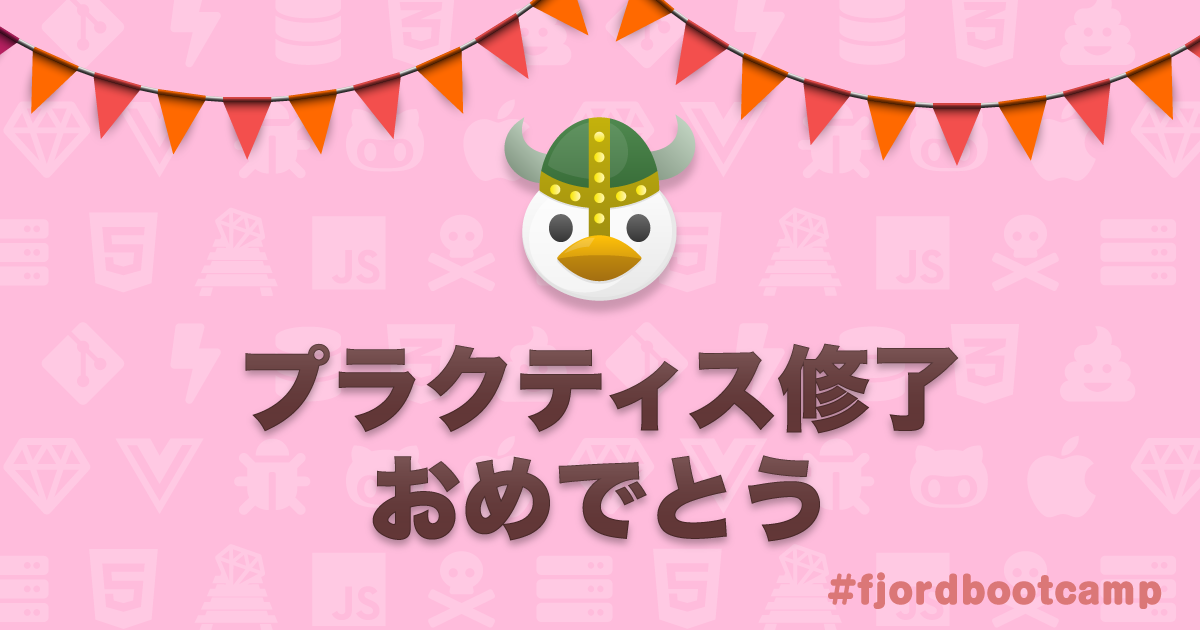
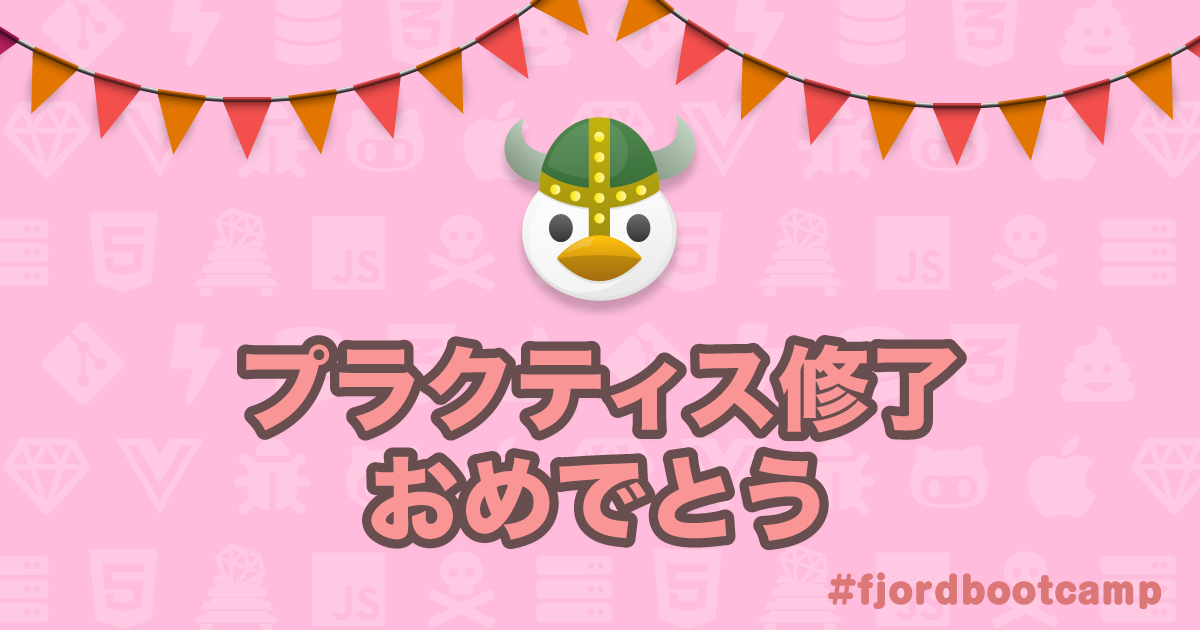
デザイン修正

diff --git a/app/assets/stylesheets/completion/_completion-base.sass b/app/assets/stylesheets/completion/_completion-base.sass
@@ -1,5 +1,5 @@
 body.is-completion
-  background-color: $background-tint
+  background-color: #00a0dd
 
 .completion-wrapper
   min-height: 100vh
@@ -13,7 +13,7 @@ body.is-completion
     +size(100%)
     opacity: .075
     +media-breakpoint-up(md)
-      background-size: 18rem auto
+      background-size: 16rem auto
 
 .completion-wrapper__start
   flex: 1
@@ -26,16 +26,15 @@ body.is-completion
   +padding(vertical, 4rem 2rem)
 
 .complestion__title
-  +text-block(2rem 1.5, 800 center)
-  font-family: YakuHanJPs_Narrow,Hiragino Sans,Hiragino Kaku Gothic ProN,BIZ UDPGothic,Meiryo,sans-serif
+  +text-block(2rem 1.5, 800 center $reversal-text)
+  font-family: YakuHanJP_Narrow,Hiragino Sans,Hiragino Kaku Gothic ProN,BIZ UDPGothic,Meiryo,sans-serif
 
 .complestion__body
   margin-top: 3rem
 
 .complestion__image
-  border-radius: .75rem
-  box-shadow: rgba(black, .4) 0 0 1.5rem
-  border: solid 1px rgba(black, .2)
+  border-radius: 1rem
+  border: solid .75rem $base
 
 .welcome-footer
   +media-breakpoint-up(md)
